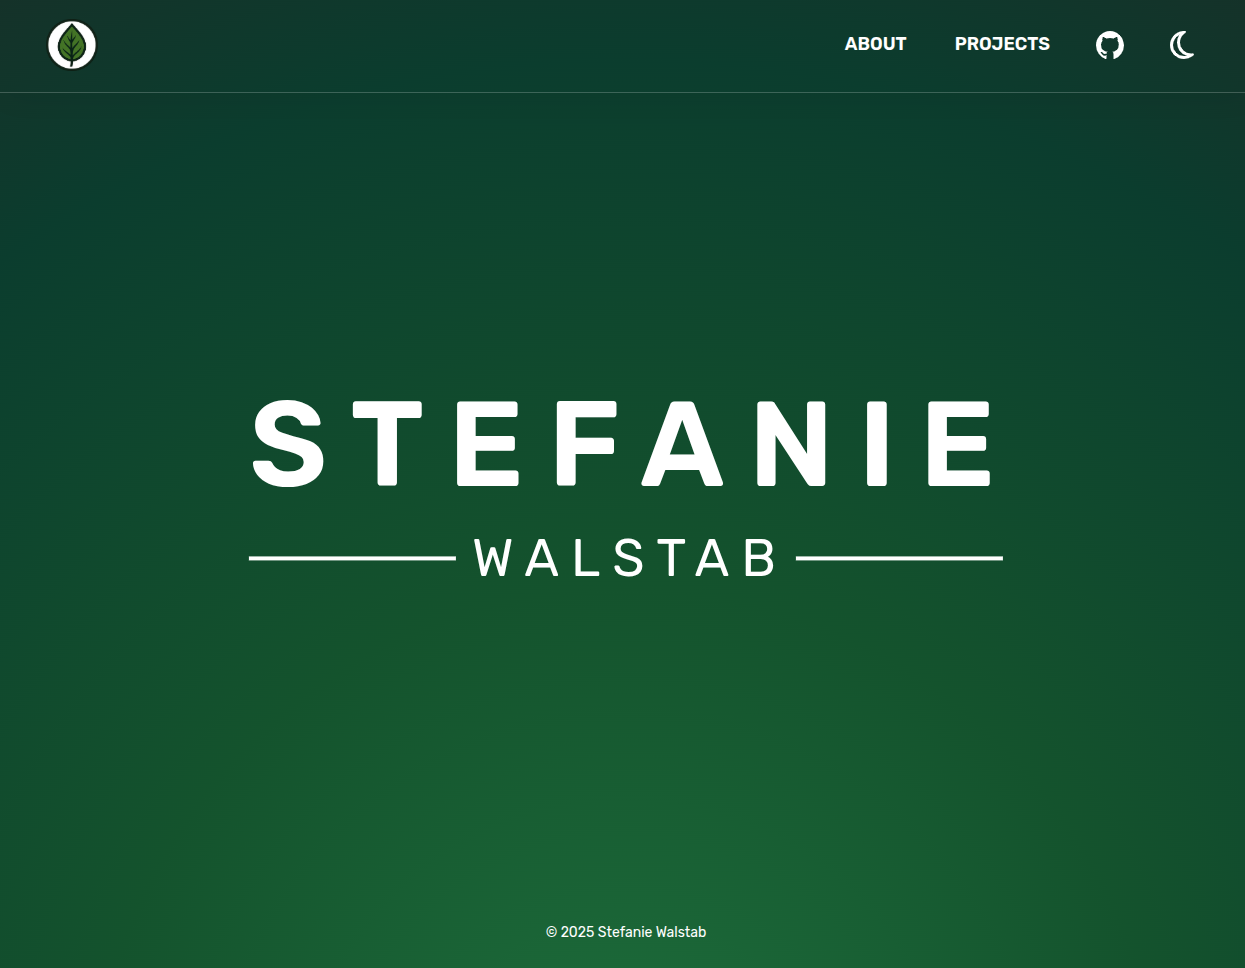
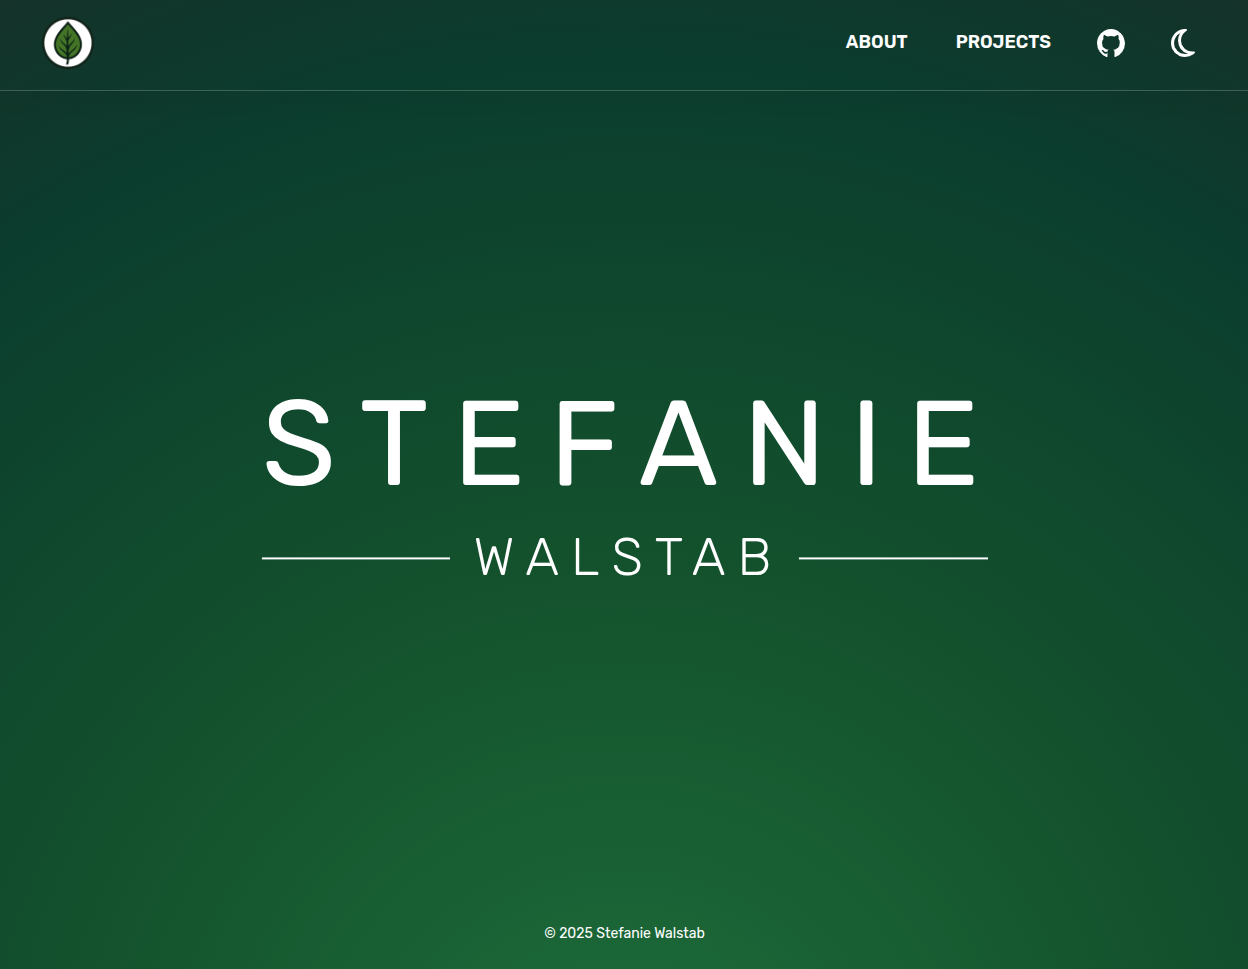
update screenshoot of HomePage for ProjectPage

diff --git a/src/pages/HomePage.css b/src/pages/HomePage.css
@@ -45,7 +45,7 @@
 .surname {
   display: flex;
   align-items: center;
-  gap: 1.6rem;
+  gap: 2.4rem;
   width: 100%;
   font-size: 5.2rem;
   font-weight: 300;
